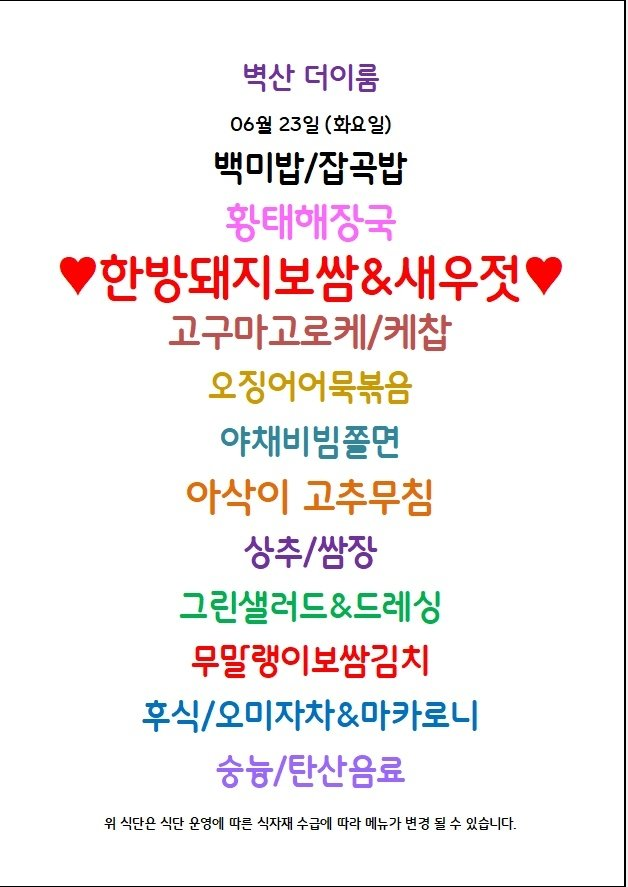
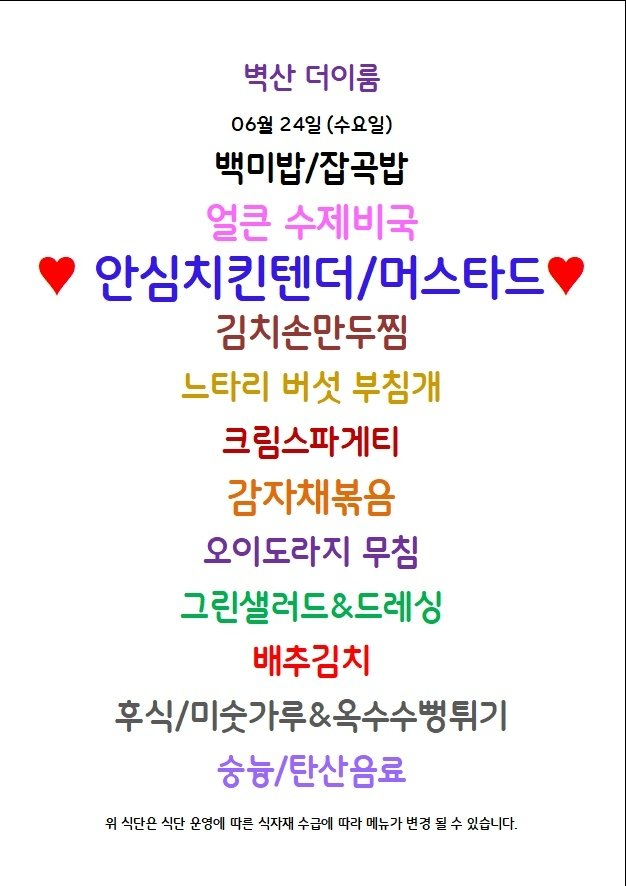
Update menu board assets

diff --git a/guro-menu/index.html b/guro-menu/index.html
@@ -32,7 +32,7 @@
   </header>
   <section class="meta">
     <div><small>기준 날짜</small><strong>2026년 6월 24일 수요일</strong></div>
-    <div><small>최종 갱신</small><strong>2026-06-24 09:03:46</strong></div>
+    <div><small>최종 갱신</small><strong>2026-06-24 09:13:14</strong></div>
     <div><small>등록 식당</small><strong>5개</strong></div>
   </section>
   <div class="notice">공개 카카오 채널의 메뉴 이미지를 자동 수집하고 OCR로 정리합니다. 텍스트에 오타가 있을 수 있으니 식단 이미지를 함께 확인해 주세요.</div>
@@ -89,8 +89,8 @@
           <a class="channel" href="https://pf.kakao.com/_xdLzxgG" target="_blank" rel="noopener">원본 채널</a>
         </div>
         <img class="menu-image" src="./images/byucksan-theirum.png" alt="벽산더이룸 식단 이미지" loading="lazy">
-        <p class="message">최신 공개 식단 이미지의 텍스트입니다. 날짜는 원본 이미지를 확인해 주세요.</p>
-        <ul><li>백미밥/잡곡밥</li><li>황태해장국</li><li>고구마고로케/케잡</li><li>오징어어묵볶음</li><li>야채비빔쓸면</li><li>아삭이 고추무침</li><li>상주/쌈장</li><li>그린샐러드&amp;드레싱</li><li>무말랭이보쌈김치</li><li>후식/오미자차&amp;마카로니</li><li>숭등/탄산음료</li></ul>
+        
+        <ul><li>벽산 더이름</li><li>백미밥/잡곡밥</li><li>얼큰 수제비국</li><li>안심치킨텐더/머스타드</li><li>김치손만두찜</li><li>느타리 버섯 부침개</li><li>크림스파게티</li><li>감자채볶음</li><li>오이도라지 무침</li><li>그린샐러드&amp;드레싱</li><li>배추김치</li><li>후식/미숫가루&amp;옥수수병튀기</li><li>숭늉/탄산음료</li></ul>
       </article>
 
       <article class="restaurant-card">

diff --git a/menu-today/index.html b/menu-today/index.html
@@ -209,7 +209,7 @@
 
     <section class="meta-bar">
       <div class="meta-card"><div class="meta-label">기준 날짜</div><div class="meta-value">2026년 6월 24일 수요일</div></div>
-      <div class="meta-card"><div class="meta-label">최종 가져온 시간</div><div class="meta-value">2026-06-24 09:03:32</div></div>
+      <div class="meta-card"><div class="meta-label">최종 가져온 시간</div><div class="meta-value">2026-06-24 09:13:04</div></div>
       <div class="meta-card"><div class="meta-label">확인 완료</div><div class="meta-value">9개 식당</div></div>
       <div class="meta-card"><div class="meta-label">준비중</div><div class="meta-value">3개 채널</div></div>
     </section>
@@ -295,7 +295,7 @@
             <div class="sub">에이스테크노타워10차</div>
           </div>
         </div>
-        <div class="menu-inline-image"><img src="./images/thefoodsketch.png" alt="더푸드스케치 식단 이미지"></div><ul><li>냉이된장찌개</li><li>소세지계란밀이</li><li>미트볼크림소스</li><li>&gt; 감자떡</li><li>흑임자연근무침</li><li>가든샐러드 / 드레싱</li><li>배추겉절이 / 음료</li><li>감자떡</li></ul>
+        <div class="menu-inline-image"><img src="./images/thefoodsketch.png" alt="더푸드스케치 식단 이미지"></div><ul><li>냉이된장찌개</li><li>소세지계란밀이</li><li>미트볼크림소스</li><li>&gt; 감자떡</li><li>흑임자연근무침</li><li>가든샐러드 &amp; 드레싱</li><li>배추겉절이 / 음료</li><li>감자떡</li></ul>
       </article>
 
       <article class="restaurant-card">
